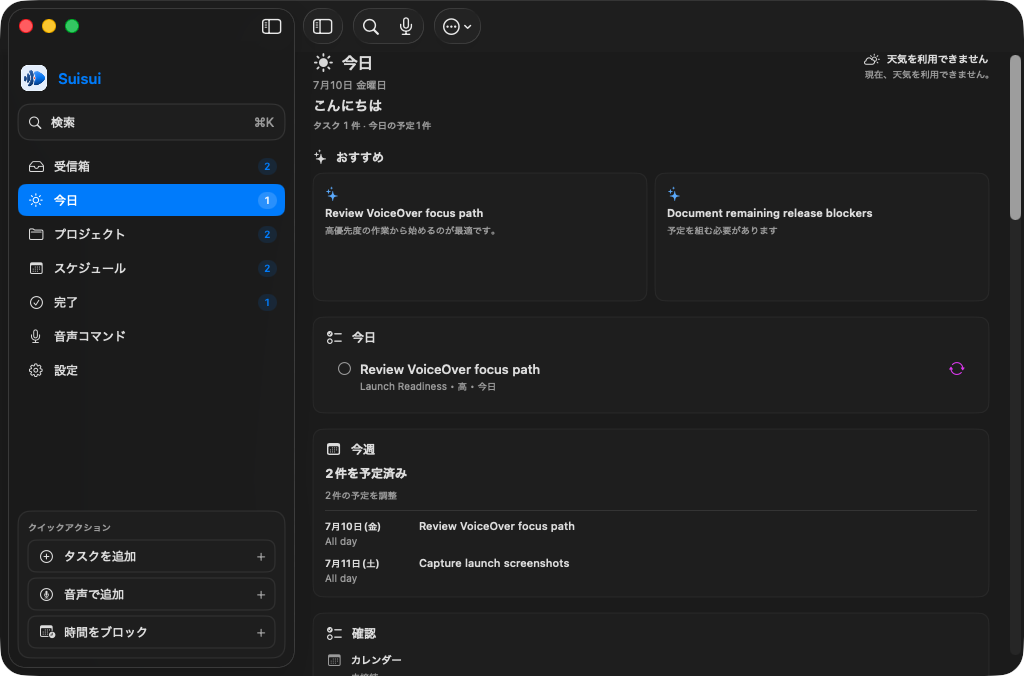
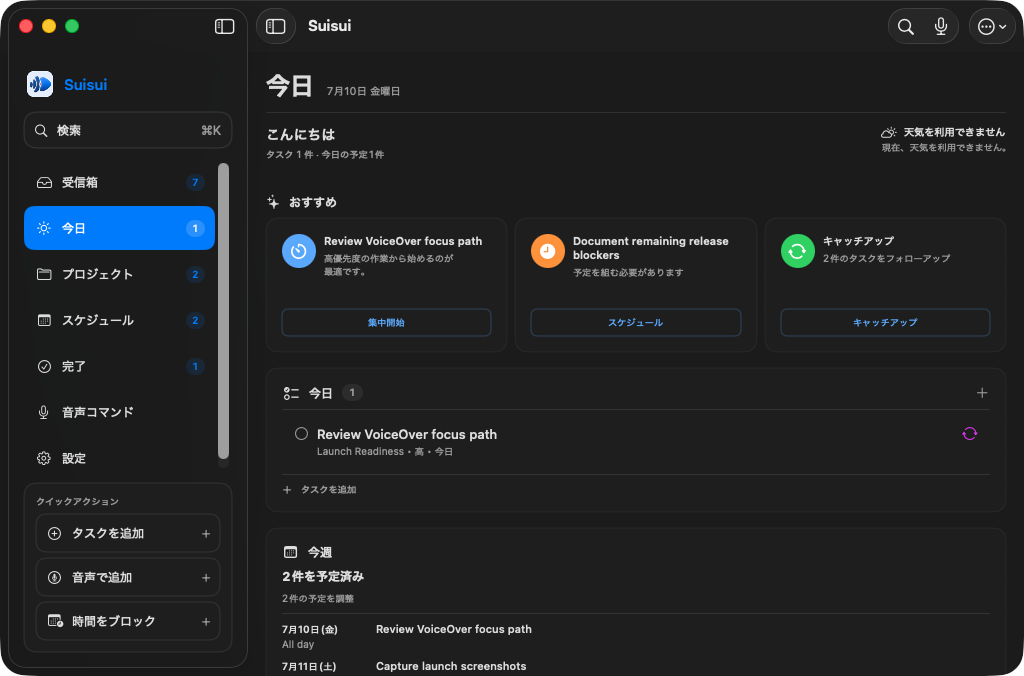
chore(evidence): refresh inbox responsive captures

diff --git a/docs/release/evidence/p0-workflow-screenshots.md b/docs/release/evidence/p0-workflow-screenshots.md
@@ -3,8 +3,9 @@
 Generated with `script/capture_ui_evidence.sh --p0-workflows`.
 This targeted evidence covers the Personal MVP Inbox and Today closeout paths without rewriting the full release screenshot set.
 
-- Generated at: `2026-08-11T17:04:20Z`
-- Source commit: `d99a6751`
+- Generated at: `2026-08-12T06:36:26Z`
+- Source commit: `97771f52`
+- Locales: `en-US`, `ja-JP`
 - Screen Recording preflight: `script/capture_ui_evidence.sh --doctor`
 
 ## Inbox
@@ -12,17 +13,25 @@ This targeted evidence covers the Personal MVP Inbox and Today closeout paths wi
 - Light: `docs/release/evidence/ui-screenshots/inbox-light.png`
 - Dark: `docs/release/evidence/ui-screenshots/inbox-dark.png`
 - System: `docs/release/evidence/ui-screenshots/inbox-system.png`
+- Japanese light: `docs/release/evidence/ui-screenshots-ja/inbox-light.png`
+- Japanese dark: `docs/release/evidence/ui-screenshots-ja/inbox-dark.png`
+- Japanese system: `docs/release/evidence/ui-screenshots-ja/inbox-system.png`
 
 ## Today
 
 - Light: `docs/release/evidence/ui-screenshots/today-light.png`
 - Dark: `docs/release/evidence/ui-screenshots/today-dark.png`
 - System: `docs/release/evidence/ui-screenshots/today-system.png`
+- Japanese light: `docs/release/evidence/ui-screenshots-ja/today-light.png`
+- Japanese dark: `docs/release/evidence/ui-screenshots-ja/today-dark.png`
+- Japanese system: `docs/release/evidence/ui-screenshots-ja/today-system.png`
 
 ## Inbox Voice Detail
 
 - Light: `docs/release/evidence/ui-screenshots/inbox-voice-light.png`
 - Dark: `docs/release/evidence/ui-screenshots/inbox-voice-dark.png`
+- Japanese light: `docs/release/evidence/ui-screenshots-ja/inbox-voice-light.png`
+- Japanese dark: `docs/release/evidence/ui-screenshots-ja/inbox-voice-dark.png`
 
 ## Guardrails
 

diff --git a/docs/release/evidence/inbox-wide-visual-evidence.md b/docs/release/evidence/inbox-wide-visual-evidence.md
@@ -13,6 +13,10 @@ voice playback, transcript, proposed actions, and detail information.
 - Dark Inbox: `ui-screenshots/inbox-wide-dark.png`
 - Light Inbox voice detail: `ui-screenshots/inbox-voice-wide-light.png`
 - Dark Inbox voice detail: `ui-screenshots/inbox-voice-wide-dark.png`
+- Japanese light Inbox: `ui-screenshots-ja/inbox-wide-light.png`
+- Japanese dark Inbox: `ui-screenshots-ja/inbox-wide-dark.png`
+- Japanese light Inbox voice detail: `ui-screenshots-ja/inbox-voice-wide-light.png`
+- Japanese dark Inbox voice detail: `ui-screenshots-ja/inbox-voice-wide-dark.png`
 
 Capture command:
 
@@ -24,4 +28,7 @@ SUISUI_VISUAL_BASELINE_VIEWPORT=1400x975 \
 
 Runtime behavior was independently verified by
 `script/check_runtime_inbox_triage_smoke.sh`, including quick add, task
-classification, schedule, review later, project conversion, and Undo.
+classification, schedule, review later, project conversion, and Undo. Voice
+playback was independently verified by
+`script/check_runtime_inbox_voice_playback_smoke.sh`, including restart,
+play/pause, progress, seek, selection stop, and missing-audio fallback.
